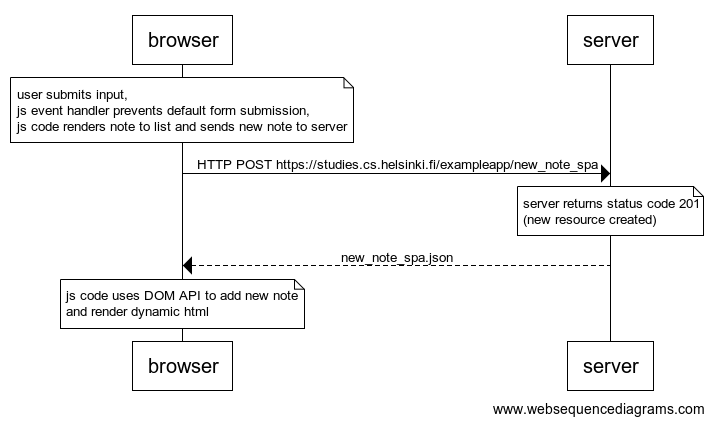
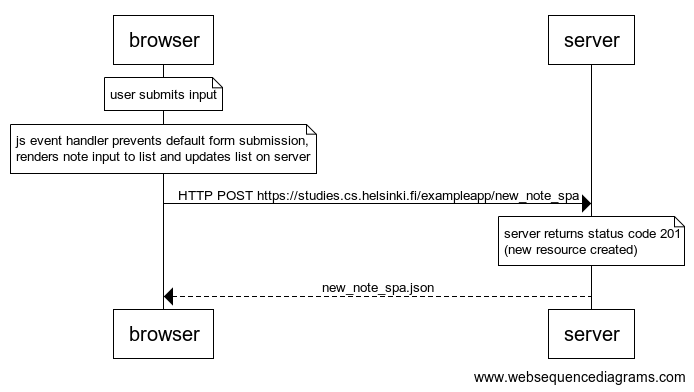
readme

diff --git a/part0/README.md b/part0/README.md
@@ -1,9 +1,8 @@
-# part 0
+# [Fullstack Open 2020](https://fullstackopen.com/en/about)
+## [Part 0](https://fullstackopen.com/en/part0)
+## [Exercises](https://fullstackopen.com/en/part0/fundamentals_of_web_apps#exercises-0-1-0-6)
 
-** exercise 0.4: new note **
+[**0.4: new note**](./exercise0_4.png)
 
-* In chapter Loading a page containing JavaScript - revised the chain of events caused by opening the page https://studies.cs.helsinki.fi/exampleapp/notes is depicted as a sequence diagram
 
-Create a similar diagram depicting the situation where the user creates a new note on page https://studies.cs.helsinki.fi/exampleapp/notes by writing something into the text field and clicking the submit button.
 
-If necessary, show operations on the browser or on the server as comments on the diagram. *
